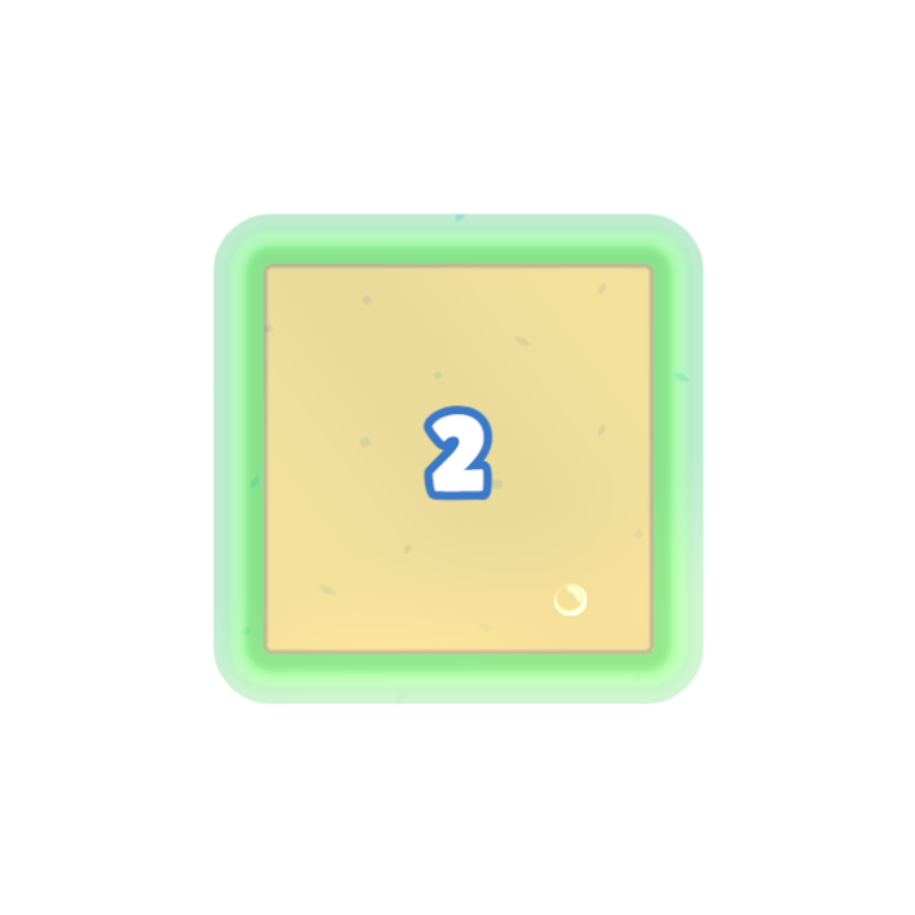
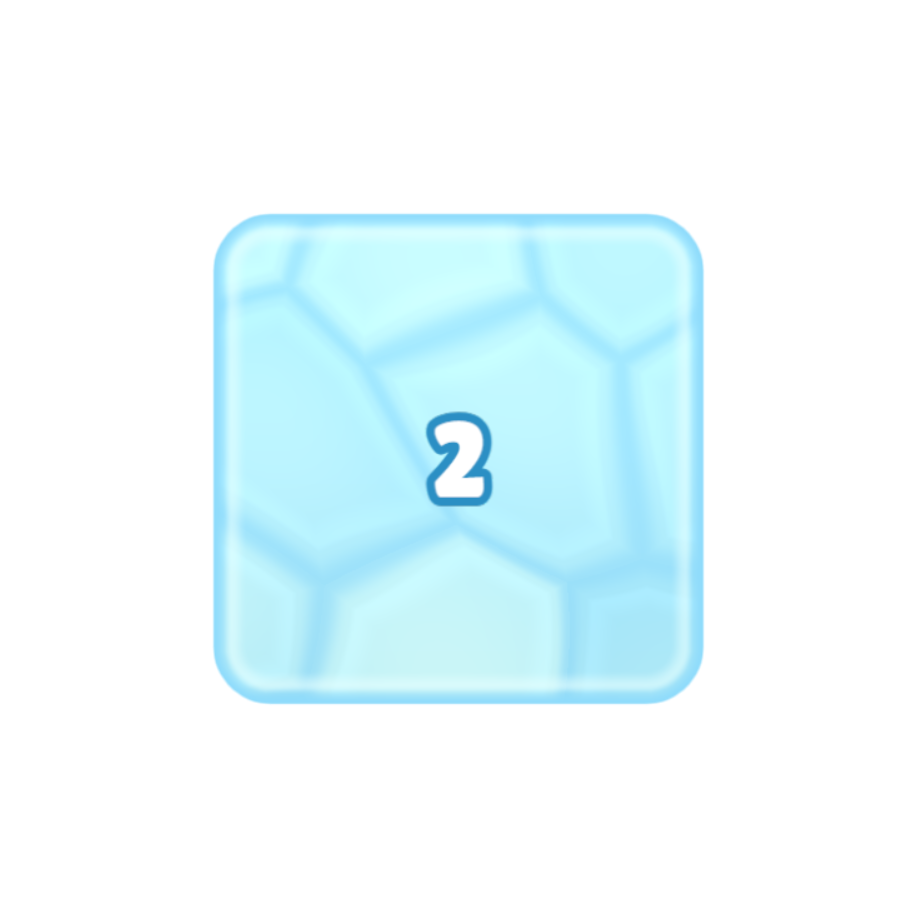
Deploy worm-jam e6876bc

Changed region(s): [[0.2142, 0.2142, 0.7956, 0.7956]]

diff --git a/assets/index-DDWVZW5E.js b/assets/index-DDWVZW5E.js
@@ -5278,9 +5278,26 @@ uniform sampler2D uFA; uniform sampler2D uFB; uniform float uMorph; uniform floa
 uniform vec4 uSeg[${bp}]; uniform vec3 uSC[${bp}]; uniform vec3 uSF[${bp}]; uniform int uNS;
 uniform vec4 uIn; uniform vec3 uInC; uniform vec2 uJet[${Sp}]; uniform int uNJ; uniform float uMask;
 uniform float uCx; uniform float uSinT; uniform float uCosT; uniform float uWx; uniform float uWz;
-uniform float uTime; uniform float uBubbles; uniform sampler2D uBubble; uniform float uYb; uniform float uIce;
+uniform float uTime; uniform float uBubbles; uniform sampler2D uBubble; uniform float uYb; uniform float uIce; uniform float uIceSeed;
 varying vec2 vLocal;
 float hash(float n){ return fract(sin(n * 127.1) * 43758.5453); }
+vec2 hash2(vec2 p){ return fract(sin(vec2(dot(p, vec2(127.1, 311.7)), dot(p, vec2(269.5, 183.3)))) * 43758.5453); }
+// Ice plates (Voronoi): x = distance to the nearest crack, y = the plate's own shade, z = distance to the plate's centre
+vec3 icePlates(vec2 x){
+  vec2 n = floor(x), f = fract(x), mg = vec2(0.0), mr = vec2(0.0);
+  float md = 8.0, id = 0.0;
+  for (int j = -1; j <= 1; j++) for (int i = -1; i <= 1; i++) {
+    vec2 g = vec2(float(i), float(j)), r = g + 0.12 + 0.76 * hash2(n + g) - f;
+    float d = dot(r, r);
+    if (d < md) { md = d; mr = r; mg = g; id = hash2(n + g + 3.7).x; }
+  }
+  float edge = 8.0;
+  for (int j = -2; j <= 2; j++) for (int i = -2; i <= 2; i++) {
+    vec2 g = mg + vec2(float(i), float(j)), r = g + 0.12 + 0.76 * hash2(n + g) - f;
+    if (dot(mr - r, mr - r) > 0.00001) edge = min(edge, dot(0.5 * (mr + r), normalize(r - mr)));
+  }
+  return vec3(edge, id, length(mr));
+}
 void main(){
   vec2 uv = (vLocal - uBox.xy) / uBox.zw;
   float f = texture2D(uSdf, uv).r * ${(2*yp).toFixed(2)} - ${yp.toFixed(2)};
@@ -5355,20 +5372,27 @@ void main(){
   vec4 stroke = vec4(min(sc, vec3(1.0)), 1.0);
   float inner = smoothstep(-${pp.toFixed(3)} + aa, -${pp.toFixed(3)} - aa, f);
   vec4 c = mix(stroke, inside, inner);                                          // premultiplied
-  // ICE (Water Out BlockIceMechanic): the whole tank is cased in pale frosted ice with a few cracks and glints
+  // ICE: a solid shell over the whole tank, as Water Out's opaque Tray_*_Ice mesh: pale cyan plates (#C8FAFF) split by wide, soft,
+  // deeper cracks (#A1E7FF, sampled from its ice tank art). Our own procedural plates, no texture of theirs.
   if (uIce > 0.0) {
-    vec2 q2 = vLocal * 3.1;
-    float crack = smoothstep(0.035, 0.0, abs(fract(q2.x * 0.7 + q2.y * 0.45 + 0.13 * sin(q2.y * 2.3)) - 0.5) - 0.44)
-                + smoothstep(0.035, 0.0, abs(fract(q2.y * 0.6 - q2.x * 0.35 + 0.11 * sin(q2.x * 2.9)) - 0.5) - 0.45);
-    vec3 icy = mix(vec3(0.72, 0.88, 1.0), vec3(0.93, 0.98, 1.0), smoothstep(0.4, -0.2, vLocal.y - vLocal.x * 0.3 - uYb));
-    icy = mix(icy, vec3(1.0), 0.6 * clamp(crack, 0.0, 1.0));
-    vec4 ice = vec4(icy, 1.0);
-    c = mix(c, ice, uIce * mix(0.82, 0.55, smoothstep(-0.02, -0.13, f)));
+    vec2 q = vLocal * 1.08 + uIceSeed;
+    q += 0.13 * sin(q.yx * 2.1 + uIceSeed);
+    vec3 p = icePlates(q);
+    float wide = 0.055 + 0.05 * (0.5 + 0.5 * sin(q.x * 3.7 + q.y * 2.9 + uIceSeed));   // cracks are not all as wide
+    float body = smoothstep(0.004, wide, p.x);                                  // 0 in a crack, 1 on a plate
+    vec3 plate = mix(vec3(0.655, 0.92, 1.0), vec3(0.775, 0.975, 1.0), p.y);
+    plate += vec3(0.05, 0.022, 0.0) * smoothstep(0.75, 0.08, p.z);              // each plate is lighter toward its middle
+    plate += vec3(0.022) * smoothstep(wide, wide + 0.03, p.x) * smoothstep(wide + 0.13, wide + 0.03, p.x);   // a soft lit lip beside the crack
+    vec3 icy = mix(vec3(0.60, 0.885, 0.995), plate, 0.28 + 0.72 * body);
+    icy *= 0.965 + 0.05 * smoothstep(-0.8, 0.8, vLocal.y - uYb - 0.5);          // lit from the top
+    icy = mix(vec3(0.56, 0.86, 0.985), icy, smoothstep(0.0, -0.075, f));        // the shell's rounded edge
+    icy = mix(icy, vec3(0.90, 1.0, 1.0), 0.55 * smoothstep(-0.035, -0.07, f) * smoothstep(-0.13, -0.07, f));
+    c = mix(c, vec4(min(icy, vec3(1.0)), 1.0), uIce);
   }
   gl_FragColor = c * outer;
 }`,Fp=220,Ip=`attribute float aSize; uniform float uPx;
 void main(){ gl_PointSize = aSize * uPx; gl_Position = projectionMatrix * modelViewMatrix * vec4(position, 1.0); }`,Lp=`uniform sampler2D uTex;
-void main(){ vec4 t = texture2D(uTex, vec2(gl_PointCoord.x, 1.0 - gl_PointCoord.y)); gl_FragColor = vec4(t.rgb * t.a * 0.6, 0.0); }`,Rp=.16,zp=class e{constructor(e,t){X(this,`rel`,void 0),X(this,`color`,void 0),X(this,`group`,new vn),X(this,`mesh`,void 0),X(this,`mat`,void 0),X(this,`shape`,void 0),X(this,`segs`,[]),X(this,`inflow`,null),X(this,`fields`,new Map),X(this,`fieldA`,void 0),X(this,`fieldB`,void 0),X(this,`fieldKey`,`rest`),X(this,`morph`,1),X(this,`yb`,void 0),X(this,`capacity`,void 0),X(this,`bubbles`,0),X(this,`scale`,1),X(this,`ice`,0),X(this,`iceLabel`,null),X(this,`iceShown`,-1),X(this,`jiggle`,0),X(this,`center`,void 0),X(this,`bubs`,[]),X(this,`bubGeo`,new Tr),X(this,`bubPos`,new Float32Array(660)),X(this,`bubSize`,new Float32Array(Fp)),X(this,`bubMat`,void 0),X(this,`cellSet`,void 0),X(this,`emitAcc`,0),X(this,`t`,0),X(this,`toAddX`,0),X(this,`toAddZ`,0),X(this,`sine`,0),X(this,`last`,null),X(this,`mask`,0),X(this,`maskTo`,0),X(this,`markLabel`,null),X(this,`axisMark`,null),X(this,`axisLen`,0),this.rel=e,this.color=t,this.capacity=e.length,this.shape=jp(e);let n=Dp(t),{x0:r,y0:i,sw:a,sh:o}=this.shape,s=new _i(a,o);s.translate(r+a/2,i+o/2,0);let c=e.map(e=>e[1]),l=Math.min(...c),u=Math.max(...c);this.yb=l-.5+mp+pp;let d=e.map(e=>e[0]),f=Math.min(...d),p=Math.max(...d)-f>u-l,m=1.3/xp;this.fieldA=this.fieldB=Mp(e,this.shape,(e,t)=>p?e<f-.5+m:t<l-.5+m),this.fields.set(`rest`,this.fieldB),this.center=[(Math.min(...d)+Math.max(...d))/2,(l+u)/2],this.mat=new Ei({vertexShader:Np,fragmentShader:Pp,transparent:!0,depthTest:!1,depthWrite:!1,blending:5,blendSrc:201,blendDst:205,uniforms:{uSdf:{value:this.shape.tex},uBox:{value:new Rt(r,i,a,o)},uStroke:{value:Ep(n.stroke)},uGlass:{value:Ep(n.glass)},uEmission:{value:Ep(n.emission)},uFA:{value:this.fieldA.tex},uFB:{value:this.fieldB.tex},uMorph:{value:1},uCells:{value:e.length},uSeg:{value:Array.from({length:bp},()=>new Rt)},uSC:{value:Array.from({length:bp},()=>new K)},uSF:{value:Array.from({length:bp},()=>new K)},uNS:{value:0},uIn:{value:new Rt},uInC:{value:new K},uJet:{value:Array.from({length:Sp},()=>new U)},uNJ:{value:0},uMask:{value:0},uCx:{value:this.center[0]},uSinT:{value:0},uCosT:{value:1},uWx:{value:0},uWz:{value:.2},uTime:{value:0},uBubbles:{value:0},uBubble:{value:kl(`water/bubble.png`)},uYb:{value:this.yb},uIce:{value:0}}}),this.mesh=new q(s,this.mat),this.mesh.position.set(-this.center[0],-this.center[1],0),this.mesh.renderOrder=300,this.group.add(this.mesh),this.cellSet=new Set(e.map(([e,t])=>e+`,`+t)),this.bubGeo.setAttribute(`position`,new ur(this.bubPos,3)),this.bubGeo.setAttribute(`aSize`,new ur(this.bubSize,1)),this.bubMat=new Ei({vertexShader:Ip,fragmentShader:Lp,transparent:!0,depthTest:!1,depthWrite:!1,blending:5,blendSrc:201,blendDst:201,uniforms:{uTex:{value:kl(`water/bubble.png`)},uPx:{value:60}}});let h=new li(this.bubGeo,this.bubMat);h.frustumCulled=!1,h.renderOrder=301,h.position.copy(this.mesh.position),this.group.add(h)}inside(e,t,n){let r=Math.round(e),i=Math.round(t);if(!this.cellSet.has(r+`,`+i))return!1;let a=.23+n*.6,o=e-r,s=t-i;return!(o<-.5+a&&!this.cellSet.has(r-1+`,`+i)||o>.5-a&&!this.cellSet.has(r+1+`,`+i)||s<-.5+a&&!this.cellSet.has(r+`,`+(i-1)))}spawnBub(e,t,n){if(this.bubs.length>=Fp)return;let r=n?.04+Math.random()*.07:.03+Math.random()*.04;this.inside(e,t,r)&&this.bubs.push({x:e,y:t,r,vy:.15+Math.random()*.25,ph:Math.random()*6.28,age:0})}emit(e,t){for(let n=0;n<e;n++){let e,n;if(t)e=(t[0]-this.group.position.x)/this.scale+this.center[0]+(Math.random()-.5)*.45,n=(t[1]-this.group.position.y)/this.scale+this.center[1]+(Math.random()-.7)*.4;else{let t=this.rel[Math.floor(Math.random()*this.rel.length)];e=t[0]+(Math.random()-.5)*.7,n=t[1]+(Math.random()-.5)*.7}this.wet(e,n)&&this.spawnBub(e,n,!0)}}volume(){return this.segs.reduce((e,t)=>e+(t.to-t.from)*this.capacity,0)}share(e,t,n){let{x0:r,y0:i,sw:a,sh:o}=this.shape,s=Math.max(0,Math.min(e.w-1,Math.floor((t-r)/a*e.w))),c=Math.max(0,Math.min(e.h-1,Math.floor((n-i)/o*e.h)));return e.data[c*e.w+s]}wet(e,t){if(!this.cellSet.has(Math.round(e)+`,`+Math.round(t)))return!1;let n=this.share(this.fieldB,e,t);return this.segs.some(e=>n>=e.from&&n<e.to)}jetPath(e,t,n){let r=e=>e[0]+`,`+e[1],i=new Map([[r(t),null]]),a=[t];for(let e=0;e<a.length;e++)for(let[t,n]of[[1,0],[-1,0],[0,1],[0,-1]]){let o=[a[e][0]+t,a[e][1]+n];this.cellSet.has(r(o))&&!i.has(r(o))&&(i.set(r(o),a[e]),a.push(o))}let o=t;for(let t of a)this.share(e,t[0],t[1])>this.share(e,o[0],o[1])&&(o=t);let s=[];for(let e=o;e;e=i.get(r(e))??null)s.unshift(e);let c=[[t[0]+n[0]*.5,t[1]+n[1]*.5],...s].slice(0,7),l=c[c.length-2],u=c[c.length-1],d=Math.hypot(u[0]-l[0],u[1]-l[1])||1;return c.push([u[0]+(u[0]-l[0])/d*.42,u[1]+(u[1]-l[1])/d*.42]),c}updateBubbles(t,n){let r=this.volume();if(r>.05)for(this.emitAcc+=t*(.9*Math.min(r,3)+55*this.bubbles);this.emitAcc>=1;){--this.emitAcc;let e=this.rel[Math.floor(Math.random()*this.rel.length)],t=e[0]+(Math.random()-.5)*.7,n=e[1]+(Math.random()-.5)*.75;this.wet(t,n)&&this.spawnBub(t,n,this.bubbles>.3)}let i=[];for(let e of this.bubs){if(e.age+=t,e.vy+=.9*t,e.y+=e.vy*t,e.x+=Math.sin(n*5+e.ph)*.05*t,r<.02||!this.wet(e.x,e.y+e.r*.5)||!this.inside(e.x,e.y,e.r*.5)){if(Math.random()<t*8||!this.inside(e.x,e.y,e.r*.5))continue;e.y-=e.vy*t,e.vy=0}i.push(e)}this.bubs=i;let a=i.length;for(let e=0;e<a;e++){let t=i[e];this.bubPos[e*3]=t.x,this.bubPos[e*3+1]=t.y,this.bubPos[e*3+2]=0,this.bubSize[e]=2*t.r*Math.min(1,t.age/.12)}this.bubGeo.setDrawRange(0,a),this.bubGeo.getAttribute(`position`).needsUpdate=!0,this.bubGeo.getAttribute(`aSize`).needsUpdate=!0,this.bubMat.uniforms.uPx.value=e.px*this.scale}setPos(e,t){this.group.position.set(e+this.center[0],t+this.center[1],0)}setLiquid(e,t){this.segs=e,this.inflow=t}setDoor(e,t){let n=`${e[0]},${e[1]},${t[0]},${t[1]}`;if(n===this.fieldKey)return;this.fieldKey=n;let r=this.fields.get(n);if(!r){let i=.5-1.3/xp;r=Mp(this.rel,this.shape,(n,r)=>Math.round(n)===e[0]&&Math.round(r)===e[1]&&(n-e[0])*t[0]+(r-e[1])*t[1]>i),r.jet=this.jetPath(r,e,t),this.fields.set(n,r)}this.fieldA=this.fieldB,this.fieldB=r,this.morph=0;let i=this.mat.uniforms.uJet.value;(r.jet??[]).forEach(([e,t],n)=>i[n].set(e,t)),this.mat.uniforms.uNJ.value=r.jet?.length??0}toWorld(e,t){return[this.group.position.x+(e-this.center[0])*this.scale,this.group.position.y+(t-this.center[1])*this.scale]}update(e,t){let n=this.mat.uniforms;this.morph=Math.min(1,this.morph+e/Cp),n.uFA.value=this.fieldA.tex,n.uFB.value=this.fieldB.tex,n.uMorph.value=this.morph*this.morph*(3-2*this.morph);let r=n.uSeg.value,i=n.uSC.value,a=n.uSF.value,o=Math.min(bp,this.segs.length);for(let e=0;e<o;e++){let t=this.segs[e],n=e===0?t.from>.001:this.segs[e-1].to<t.from-.001,s=e===o-1?t.to<.999:this.segs[e+1].from>t.to+.001;r[e].set(t.from<=.001?-1:t.from,t.to>=.999?2:t.to,+!!n,+!!s),i[e].copy(Ap(t.color,`tint`)),a[e].copy(Ap(t.color,`foam`))}n.uNS.value=o,this.inflow&&this.inflow.head>this.inflow.tail?(n.uIn.value.set(this.inflow.tail,this.inflow.head,1,0),n.uInC.value.copy(Ap(this.inflow.color,`tint`))):n.uIn.value.set(0,0,0,0);let s=this.volume();this.t+=e;let c=[this.group.position.x,this.group.position.y],l=s>1e-4?.02:0;if(e>0){let t=Math.min(1,e);this.toAddX+=(0-this.toAddX)*t,this.toAddZ+=(0-this.toAddZ)*t;let n=this.last?[(this.last[0]-c[0])/e,(this.last[1]-c[1])/e]:[0,0],r=Math.min(1,e*Math.min(10,Math.max(1,Math.hypot(n[0],n[1]))));this.sine+=(Math.sin(Math.PI*this.t)-this.sine)*r;let i=e=>Math.max(-l,Math.min(l,e));this.toAddX=Math.max(-.16,Math.min(Rp,this.toAddX+i((n[0]+.2*n[1])*l))),this.toAddZ=Math.max(-.16,Math.min(Rp,this.toAddZ+i(.2*n[1]*l)))}this.last=c,n.uWx.value=this.toAddX*this.sine,n.uWz.value=Math.max(this.toAddZ*this.sine,.2),n.uSinT.value=Math.sin(t/2),n.uCosT.value=Math.cos(t/2),n.uTime.value=t,n.uBubbles.value=this.bubbles;let u=.03*this.jiggle*Math.sin(t*26);this.group.scale.set(this.scale*(1+u),this.scale*(1-u),1),this.updateBubbles(e,t),n.uIce.value=this.ice,this.mask=Math.max(this.maskTo,this.mask-e*4.5),n.uMask.value=this.mask,this.markLabel&&(this.markLabel.material.opacity=this.mask,this.markLabel.visible=this.mask>.01),this.iceLabel&&(this.iceLabel.material.opacity=Math.min(1,this.ice*1.5),this.iceLabel.visible=this.ice>.01)}setHidden(e){if(!e){this.maskTo>0&&this.emit(26),this.maskTo=0;return}if(this.mask=this.maskTo=1,this.markLabel)return;let t=document.createElement(`canvas`);t.width=t.height=128;let n=t.getContext(`2d`);n.font=`92px WOFont, "Lilita One", Arial Black, sans-serif`,n.textAlign=`center`,n.textBaseline=`middle`,n.lineWidth=14,n.strokeStyle=`#3b3f66`,n.lineJoin=`round`,n.strokeText(`?`,64,68),n.fillStyle=`#ffffff`,n.fillText(`?`,64,68);let r=new fi(t);r.colorSpace=We;let i=new q(new _i(.66,.66),new Lr({map:r,transparent:!0,depthTest:!1,depthWrite:!1}));i.position.set(...this.insideSpot(),0),i.renderOrder=303,this.group.add(i),this.markLabel=i}setIceCount(e){if(e===this.iceShown)return;if(this.iceShown=e,!this.iceLabel){let e=new q(new _i(.62,.62),new Lr({transparent:!0,depthTest:!1,depthWrite:!1}));e.position.set(...this.insideSpot(),0),e.renderOrder=303,this.group.add(e),this.iceLabel=e}let t=document.createElement(`canvas`);t.width=t.height=128;let n=t.getContext(`2d`);n.font=`84px WOFont, "Lilita One", Arial Black, sans-serif`,n.textAlign=`center`,n.textBaseline=`middle`,n.lineWidth=14,n.strokeStyle=`#3a78c8`,n.lineJoin=`round`,n.strokeText(String(e),64,68),n.fillStyle=`#ffffff`,n.fillText(String(e),64,68);let r=new fi(t);r.colorSpace=We;let i=this.iceLabel.material;i.map?.dispose(),i.map=r,i.needsUpdate=!0}insideSpot(){let[e,t]=this.center,n=.3,r=(e,t)=>this.cellSet.has(Math.round(e)+`,`+Math.round(t));if(r(e-n,t-n)&&r(e+n,t-n)&&r(e-n,t+n)&&r(e+n,t+n))return[0,0];let i=([e,t])=>[[1,0],[-1,0],[0,1],[0,-1]].filter(([n,r])=>this.cellSet.has(e+n+`,`+(t+r))).length,a=([n,r])=>Math.hypot(n-e,r-t),o=this.rel.slice().sort((e,t)=>a(e)-a(t)||i(t)-i(e))[0];return[o[0]-e,o[1]-t]}axisRun(e){let t=new Map;for(let[n,r]of this.rel){let i=e===`h`?r:n;t.set(i,[...t.get(i)??[],e===`h`?n:r])}let n=[];for(let[e,r]of t){r.sort((e,t)=>e-t);let t=r[0];r.forEach((i,a)=>{(a===r.length-1||r[a+1]!==i+1)&&(n.push({line:e,a:t,b:i}),t=r[a+1])})}let[r,i]=this.center,a=t=>e===`h`?[(t.a+t.b)/2-r,t.line-i]:[t.line-r,(t.a+t.b)/2-i],o=e=>Math.hypot(a(e)[0],a(e)[1]),s=n.slice().sort((e,t)=>t.b-t.a-(e.b-e.a)||o(e)-o(t))[0],c=new Set(n.filter(e=>e.a===s.a&&e.b===s.b).map(e=>e.line)),l=s.line,u=s.line;for(;c.has(l-1);)l--;for(;c.has(u+1);)u++;let d=(l+u)/2,f=(s.a+s.b)/2;return{at:e===`h`?[f-r,d-i]:[d-r,f-i],span:s.b-s.a+1}}setAxis(e){if(!e)return;let{at:t,span:n}=this.axisRun(e),r=Math.min(1.7,Math.max(.8,n-.35)),i=document.createElement(`canvas`);i.width=256,i.height=96;let a=i.getContext(`2d`),o=()=>{a.beginPath(),a.moveTo(8,48),a.lineTo(52,10),a.lineTo(52,34),a.lineTo(204,34),a.lineTo(204,10),a.lineTo(248,48),a.lineTo(204,86),a.lineTo(204,62),a.lineTo(52,62),a.lineTo(52,86),a.closePath()};a.lineJoin=`round`,a.lineWidth=10,a.strokeStyle=`rgba(20,30,80,0.35)`,o(),a.stroke(),a.fillStyle=`rgba(255,255,255,0.92)`,o(),a.fill();let s=new fi(i);s.colorSpace=We;let c=new q(new _i(r,r*96/256*1.15),new Lr({map:s,transparent:!0,depthTest:!1,depthWrite:!1}));e===`v`&&(c.rotation.z=Math.PI/2),c.position.set(t[0],t[1],0),c.renderOrder=302,this.group.add(c),this.axisMark=c,this.axisLen=r}dispose(){this.mesh.geometry.dispose(),this.mat.dispose(),this.shape.tex.dispose();for(let e of this.fields.values())e.tex.dispose();this.bubGeo.dispose(),this.bubMat.dispose()}};X(zp,`px`,60);var Bp=`varying vec2 vUv; void main(){ vUv = uv; gl_Position = projectionMatrix * modelViewMatrix * vec4(position, 1.0); }`,Vp=`uniform vec3 uC; uniform float uA; uniform float uT; uniform float uDir; uniform float uHead; uniform float uTail; uniform vec2 uSize; varying vec2 vUv;
+void main(){ vec4 t = texture2D(uTex, vec2(gl_PointCoord.x, 1.0 - gl_PointCoord.y)); gl_FragColor = vec4(t.rgb * t.a * 0.6, 0.0); }`,Rp=.16,zp=class e{constructor(t,n){X(this,`rel`,void 0),X(this,`color`,void 0),X(this,`group`,new vn),X(this,`mesh`,void 0),X(this,`mat`,void 0),X(this,`shape`,void 0),X(this,`segs`,[]),X(this,`inflow`,null),X(this,`fields`,new Map),X(this,`fieldA`,void 0),X(this,`fieldB`,void 0),X(this,`fieldKey`,`rest`),X(this,`morph`,1),X(this,`yb`,void 0),X(this,`capacity`,void 0),X(this,`bubbles`,0),X(this,`scale`,1),X(this,`ice`,0),X(this,`iceLabel`,null),X(this,`iceShown`,-1),X(this,`jiggle`,0),X(this,`center`,void 0),X(this,`bubs`,[]),X(this,`bubGeo`,new Tr),X(this,`bubPos`,new Float32Array(660)),X(this,`bubSize`,new Float32Array(Fp)),X(this,`bubMat`,void 0),X(this,`bubPts`,void 0),X(this,`cellSet`,void 0),X(this,`emitAcc`,0),X(this,`t`,0),X(this,`toAddX`,0),X(this,`toAddZ`,0),X(this,`sine`,0),X(this,`last`,null),X(this,`mask`,0),X(this,`maskTo`,0),X(this,`markLabel`,null),X(this,`axisMark`,null),X(this,`axisLen`,0),this.rel=t,this.color=n,this.capacity=t.length,this.shape=jp(t);let r=Dp(n),{x0:i,y0:a,sw:o,sh:s}=this.shape,c=new _i(o,s);c.translate(i+o/2,a+s/2,0);let l=t.map(e=>e[1]),u=Math.min(...l),d=Math.max(...l);this.yb=u-.5+mp+pp;let f=t.map(e=>e[0]),p=Math.min(...f),m=Math.max(...f)-p>d-u,h=1.3/xp;this.fieldA=this.fieldB=Mp(t,this.shape,(e,t)=>m?e<p-.5+h:t<u-.5+h),this.fields.set(`rest`,this.fieldB),this.center=[(Math.min(...f)+Math.max(...f))/2,(u+d)/2],this.mat=new Ei({vertexShader:Np,fragmentShader:Pp,transparent:!0,depthTest:!1,depthWrite:!1,blending:5,blendSrc:201,blendDst:205,uniforms:{uSdf:{value:this.shape.tex},uBox:{value:new Rt(i,a,o,s)},uStroke:{value:Ep(r.stroke)},uGlass:{value:Ep(r.glass)},uEmission:{value:Ep(r.emission)},uFA:{value:this.fieldA.tex},uFB:{value:this.fieldB.tex},uMorph:{value:1},uCells:{value:t.length},uSeg:{value:Array.from({length:bp},()=>new Rt)},uSC:{value:Array.from({length:bp},()=>new K)},uSF:{value:Array.from({length:bp},()=>new K)},uNS:{value:0},uIn:{value:new Rt},uInC:{value:new K},uJet:{value:Array.from({length:Sp},()=>new U)},uNJ:{value:0},uMask:{value:0},uCx:{value:this.center[0]},uSinT:{value:0},uCosT:{value:1},uWx:{value:0},uWz:{value:.2},uTime:{value:0},uBubbles:{value:0},uBubble:{value:kl(`water/bubble.png`)},uYb:{value:this.yb},uIce:{value:0},uIceSeed:{value:(e.iceSeeds=(e.iceSeeds+1)%97)*2.37}}}),this.mesh=new q(c,this.mat),this.mesh.position.set(-this.center[0],-this.center[1],0),this.mesh.renderOrder=300,this.group.add(this.mesh),this.cellSet=new Set(t.map(([e,t])=>e+`,`+t)),this.bubGeo.setAttribute(`position`,new ur(this.bubPos,3)),this.bubGeo.setAttribute(`aSize`,new ur(this.bubSize,1)),this.bubMat=new Ei({vertexShader:Ip,fragmentShader:Lp,transparent:!0,depthTest:!1,depthWrite:!1,blending:5,blendSrc:201,blendDst:201,uniforms:{uTex:{value:kl(`water/bubble.png`)},uPx:{value:60}}});let g=new li(this.bubGeo,this.bubMat);g.frustumCulled=!1,g.renderOrder=301,g.position.copy(this.mesh.position),this.group.add(g),this.bubPts=g}inside(e,t,n){let r=Math.round(e),i=Math.round(t);if(!this.cellSet.has(r+`,`+i))return!1;let a=.23+n*.6,o=e-r,s=t-i;return!(o<-.5+a&&!this.cellSet.has(r-1+`,`+i)||o>.5-a&&!this.cellSet.has(r+1+`,`+i)||s<-.5+a&&!this.cellSet.has(r+`,`+(i-1)))}spawnBub(e,t,n){if(this.bubs.length>=Fp)return;let r=n?.04+Math.random()*.07:.03+Math.random()*.04;this.inside(e,t,r)&&this.bubs.push({x:e,y:t,r,vy:.15+Math.random()*.25,ph:Math.random()*6.28,age:0})}emit(e,t){for(let n=0;n<e;n++){let e,n;if(t)e=(t[0]-this.group.position.x)/this.scale+this.center[0]+(Math.random()-.5)*.45,n=(t[1]-this.group.position.y)/this.scale+this.center[1]+(Math.random()-.7)*.4;else{let t=this.rel[Math.floor(Math.random()*this.rel.length)];e=t[0]+(Math.random()-.5)*.7,n=t[1]+(Math.random()-.5)*.7}this.wet(e,n)&&this.spawnBub(e,n,!0)}}volume(){return this.segs.reduce((e,t)=>e+(t.to-t.from)*this.capacity,0)}share(e,t,n){let{x0:r,y0:i,sw:a,sh:o}=this.shape,s=Math.max(0,Math.min(e.w-1,Math.floor((t-r)/a*e.w))),c=Math.max(0,Math.min(e.h-1,Math.floor((n-i)/o*e.h)));return e.data[c*e.w+s]}wet(e,t){if(!this.cellSet.has(Math.round(e)+`,`+Math.round(t)))return!1;let n=this.share(this.fieldB,e,t);return this.segs.some(e=>n>=e.from&&n<e.to)}jetPath(e,t,n){let r=e=>e[0]+`,`+e[1],i=new Map([[r(t),null]]),a=[t];for(let e=0;e<a.length;e++)for(let[t,n]of[[1,0],[-1,0],[0,1],[0,-1]]){let o=[a[e][0]+t,a[e][1]+n];this.cellSet.has(r(o))&&!i.has(r(o))&&(i.set(r(o),a[e]),a.push(o))}let o=t;for(let t of a)this.share(e,t[0],t[1])>this.share(e,o[0],o[1])&&(o=t);let s=[];for(let e=o;e;e=i.get(r(e))??null)s.unshift(e);let c=[[t[0]+n[0]*.5,t[1]+n[1]*.5],...s].slice(0,7),l=c[c.length-2],u=c[c.length-1],d=Math.hypot(u[0]-l[0],u[1]-l[1])||1;return c.push([u[0]+(u[0]-l[0])/d*.42,u[1]+(u[1]-l[1])/d*.42]),c}updateBubbles(t,n){let r=this.volume();if(r>.05)for(this.emitAcc+=t*(.9*Math.min(r,3)+55*this.bubbles);this.emitAcc>=1;){--this.emitAcc;let e=this.rel[Math.floor(Math.random()*this.rel.length)],t=e[0]+(Math.random()-.5)*.7,n=e[1]+(Math.random()-.5)*.75;this.wet(t,n)&&this.spawnBub(t,n,this.bubbles>.3)}let i=[];for(let e of this.bubs){if(e.age+=t,e.vy+=.9*t,e.y+=e.vy*t,e.x+=Math.sin(n*5+e.ph)*.05*t,r<.02||!this.wet(e.x,e.y+e.r*.5)||!this.inside(e.x,e.y,e.r*.5)){if(Math.random()<t*8||!this.inside(e.x,e.y,e.r*.5))continue;e.y-=e.vy*t,e.vy=0}i.push(e)}this.bubs=i;let a=i.length;for(let e=0;e<a;e++){let t=i[e];this.bubPos[e*3]=t.x,this.bubPos[e*3+1]=t.y,this.bubPos[e*3+2]=0,this.bubSize[e]=2*t.r*Math.min(1,t.age/.12)}this.bubGeo.setDrawRange(0,a),this.bubGeo.getAttribute(`position`).needsUpdate=!0,this.bubGeo.getAttribute(`aSize`).needsUpdate=!0,this.bubMat.uniforms.uPx.value=e.px*this.scale}setPos(e,t){this.group.position.set(e+this.center[0],t+this.center[1],0)}setLiquid(e,t){this.segs=e,this.inflow=t}setDoor(e,t){let n=`${e[0]},${e[1]},${t[0]},${t[1]}`;if(n===this.fieldKey)return;this.fieldKey=n;let r=this.fields.get(n);if(!r){let i=.5-1.3/xp;r=Mp(this.rel,this.shape,(n,r)=>Math.round(n)===e[0]&&Math.round(r)===e[1]&&(n-e[0])*t[0]+(r-e[1])*t[1]>i),r.jet=this.jetPath(r,e,t),this.fields.set(n,r)}this.fieldA=this.fieldB,this.fieldB=r,this.morph=0;let i=this.mat.uniforms.uJet.value;(r.jet??[]).forEach(([e,t],n)=>i[n].set(e,t)),this.mat.uniforms.uNJ.value=r.jet?.length??0}toWorld(e,t){return[this.group.position.x+(e-this.center[0])*this.scale,this.group.position.y+(t-this.center[1])*this.scale]}update(e,t){let n=this.mat.uniforms;this.morph=Math.min(1,this.morph+e/Cp),n.uFA.value=this.fieldA.tex,n.uFB.value=this.fieldB.tex,n.uMorph.value=this.morph*this.morph*(3-2*this.morph);let r=n.uSeg.value,i=n.uSC.value,a=n.uSF.value,o=Math.min(bp,this.segs.length);for(let e=0;e<o;e++){let t=this.segs[e],n=e===0?t.from>.001:this.segs[e-1].to<t.from-.001,s=e===o-1?t.to<.999:this.segs[e+1].from>t.to+.001;r[e].set(t.from<=.001?-1:t.from,t.to>=.999?2:t.to,+!!n,+!!s),i[e].copy(Ap(t.color,`tint`)),a[e].copy(Ap(t.color,`foam`))}n.uNS.value=o,this.inflow&&this.inflow.head>this.inflow.tail?(n.uIn.value.set(this.inflow.tail,this.inflow.head,1,0),n.uInC.value.copy(Ap(this.inflow.color,`tint`))):n.uIn.value.set(0,0,0,0);let s=this.volume();this.t+=e;let c=[this.group.position.x,this.group.position.y],l=s>1e-4?.02:0;if(e>0){let t=Math.min(1,e);this.toAddX+=(0-this.toAddX)*t,this.toAddZ+=(0-this.toAddZ)*t;let n=this.last?[(this.last[0]-c[0])/e,(this.last[1]-c[1])/e]:[0,0],r=Math.min(1,e*Math.min(10,Math.max(1,Math.hypot(n[0],n[1]))));this.sine+=(Math.sin(Math.PI*this.t)-this.sine)*r;let i=e=>Math.max(-l,Math.min(l,e));this.toAddX=Math.max(-.16,Math.min(Rp,this.toAddX+i((n[0]+.2*n[1])*l))),this.toAddZ=Math.max(-.16,Math.min(Rp,this.toAddZ+i(.2*n[1]*l)))}this.last=c,n.uWx.value=this.toAddX*this.sine,n.uWz.value=Math.max(this.toAddZ*this.sine,.2),n.uSinT.value=Math.sin(t/2),n.uCosT.value=Math.cos(t/2),n.uTime.value=t,n.uBubbles.value=this.bubbles;let u=.03*this.jiggle*Math.sin(t*26);this.group.scale.set(this.scale*(1+u),this.scale*(1-u),1),this.updateBubbles(e,t),n.uIce.value=this.ice,this.bubPts.visible=this.ice<.5,this.mask=Math.max(this.maskTo,this.mask-e*4.5),n.uMask.value=this.mask,this.markLabel&&(this.markLabel.material.opacity=this.mask,this.markLabel.visible=this.mask>.01),this.iceLabel&&(this.iceLabel.material.opacity=Math.min(1,this.ice*1.5),this.iceLabel.visible=this.ice>.01)}setHidden(e){if(!e){this.maskTo>0&&this.emit(26),this.maskTo=0;return}if(this.mask=this.maskTo=1,this.markLabel)return;let t=document.createElement(`canvas`);t.width=t.height=128;let n=t.getContext(`2d`);n.font=`92px WOFont, "Lilita One", Arial Black, sans-serif`,n.textAlign=`center`,n.textBaseline=`middle`,n.lineWidth=14,n.strokeStyle=`#3b3f66`,n.lineJoin=`round`,n.strokeText(`?`,64,68),n.fillStyle=`#ffffff`,n.fillText(`?`,64,68);let r=new fi(t);r.colorSpace=We;let i=new q(new _i(.66,.66),new Lr({map:r,transparent:!0,depthTest:!1,depthWrite:!1}));i.position.set(...this.insideSpot(),0),i.renderOrder=303,this.group.add(i),this.markLabel=i}setIceCount(e){if(e===this.iceShown)return;if(this.iceShown=e,!this.iceLabel){let e=new q(new _i(.62,.62),new Lr({transparent:!0,depthTest:!1,depthWrite:!1}));e.position.set(...this.insideSpot(),0),e.renderOrder=303,this.group.add(e),this.iceLabel=e}let t=document.createElement(`canvas`);t.width=t.height=128;let n=t.getContext(`2d`);n.font=`84px WOFont, "Lilita One", Arial Black, sans-serif`,n.textAlign=`center`,n.textBaseline=`middle`,n.lineWidth=14,n.strokeStyle=`#2b8fc4`,n.lineJoin=`round`,n.strokeText(String(e),64,68),n.fillStyle=`#ffffff`,n.fillText(String(e),64,68);let r=new fi(t);r.colorSpace=We;let i=this.iceLabel.material;i.map?.dispose(),i.map=r,i.needsUpdate=!0}insideSpot(){let[e,t]=this.center,n=.3,r=(e,t)=>this.cellSet.has(Math.round(e)+`,`+Math.round(t));if(r(e-n,t-n)&&r(e+n,t-n)&&r(e-n,t+n)&&r(e+n,t+n))return[0,0];let i=([e,t])=>[[1,0],[-1,0],[0,1],[0,-1]].filter(([n,r])=>this.cellSet.has(e+n+`,`+(t+r))).length,a=([n,r])=>Math.hypot(n-e,r-t),o=this.rel.slice().sort((e,t)=>a(e)-a(t)||i(t)-i(e))[0];return[o[0]-e,o[1]-t]}axisRun(e){let t=new Map;for(let[n,r]of this.rel){let i=e===`h`?r:n;t.set(i,[...t.get(i)??[],e===`h`?n:r])}let n=[];for(let[e,r]of t){r.sort((e,t)=>e-t);let t=r[0];r.forEach((i,a)=>{(a===r.length-1||r[a+1]!==i+1)&&(n.push({line:e,a:t,b:i}),t=r[a+1])})}let[r,i]=this.center,a=t=>e===`h`?[(t.a+t.b)/2-r,t.line-i]:[t.line-r,(t.a+t.b)/2-i],o=e=>Math.hypot(a(e)[0],a(e)[1]),s=n.slice().sort((e,t)=>t.b-t.a-(e.b-e.a)||o(e)-o(t))[0],c=new Set(n.filter(e=>e.a===s.a&&e.b===s.b).map(e=>e.line)),l=s.line,u=s.line;for(;c.has(l-1);)l--;for(;c.has(u+1);)u++;let d=(l+u)/2,f=(s.a+s.b)/2;return{at:e===`h`?[f-r,d-i]:[d-r,f-i],span:s.b-s.a+1}}setAxis(e){if(!e)return;let{at:t,span:n}=this.axisRun(e),r=Math.min(1.7,Math.max(.8,n-.35)),i=document.createElement(`canvas`);i.width=256,i.height=96;let a=i.getContext(`2d`),o=()=>{a.beginPath(),a.moveTo(8,48),a.lineTo(52,10),a.lineTo(52,34),a.lineTo(204,34),a.lineTo(204,10),a.lineTo(248,48),a.lineTo(204,86),a.lineTo(204,62),a.lineTo(52,62),a.lineTo(52,86),a.closePath()};a.lineJoin=`round`,a.lineWidth=10,a.strokeStyle=`rgba(20,30,80,0.35)`,o(),a.stroke(),a.fillStyle=`rgba(255,255,255,0.92)`,o(),a.fill();let s=new fi(i);s.colorSpace=We;let c=new q(new _i(r,r*96/256*1.15),new Lr({map:s,transparent:!0,depthTest:!1,depthWrite:!1}));e===`v`&&(c.rotation.z=Math.PI/2),c.position.set(t[0],t[1],0),c.renderOrder=302,this.group.add(c),this.axisMark=c,this.axisLen=r}dispose(){this.mesh.geometry.dispose(),this.mat.dispose(),this.shape.tex.dispose();for(let e of this.fields.values())e.tex.dispose();this.bubGeo.dispose(),this.bubMat.dispose()}};X(zp,`px`,60),X(zp,`iceSeeds`,0);var Bp=`varying vec2 vUv; void main(){ vUv = uv; gl_Position = projectionMatrix * modelViewMatrix * vec4(position, 1.0); }`,Vp=`uniform vec3 uC; uniform float uA; uniform float uT; uniform float uDir; uniform float uHead; uniform float uTail; uniform vec2 uSize; varying vec2 vUv;
 float roundBox(vec2 p, vec2 b, float r){ vec2 q = abs(p) - b + r; return length(max(q, 0.0)) + min(max(q.x, q.y), 0.0) - r; }
 void main(){
   vec2 p = (vUv - 0.5) * uSize;

diff --git a/index.html b/index.html
@@ -8,7 +8,7 @@
     <link rel="stylesheet" href="./ui/boot.css" />
     <link rel="preload" as="font" type="font/ttf" href="./ui/LilitaOne-Regular.ttf" crossorigin />
     <link rel="preload" as="image" href="./ui/loading/logo.webp" />
-    <script type="module" crossorigin src="./assets/index-DM0-frCS.js"></script>
+    <script type="module" crossorigin src="./assets/index-DDWVZW5E.js"></script>
     <link rel="stylesheet" crossorigin href="./assets/index-CMOM3ThH.css">
   </head>
   <body>
